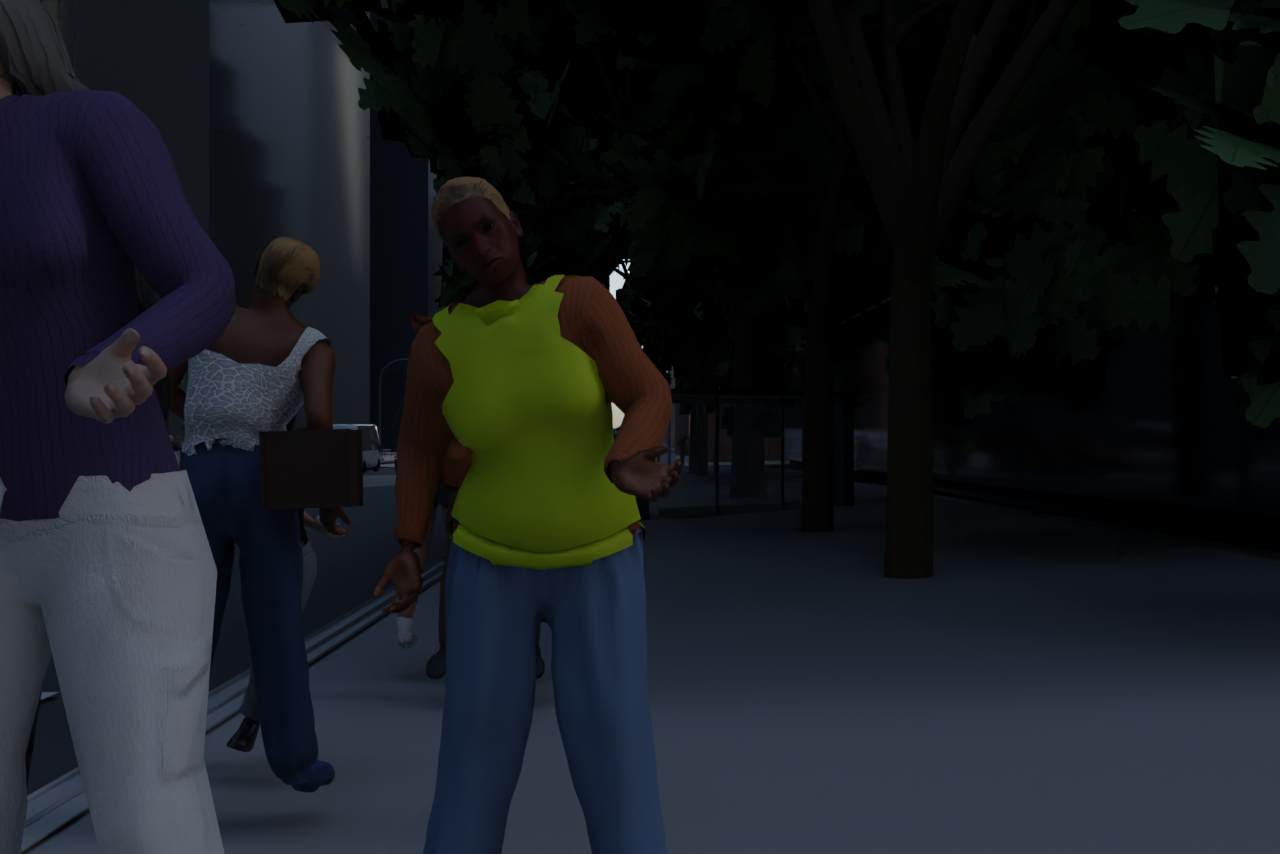
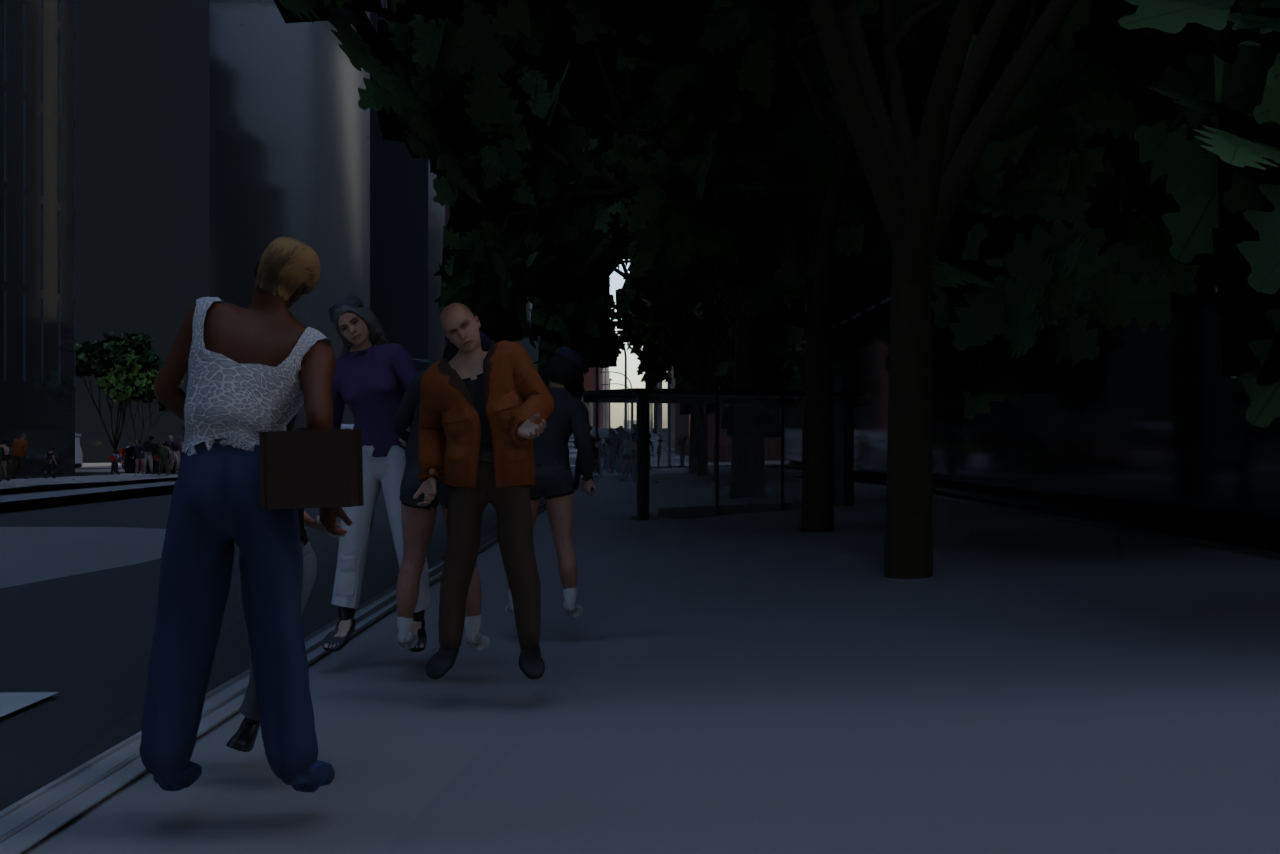
verify: Sixth Avenue, the frame that forced the clearance change, re-rendered
9 pedestrians dropped over the observer against 2 before, and 25.26 % of the
frame changed.  What was one NPC's torso at 1 m - 261 % of frame height - is a
group walking a sidewalk under the plane trees with the block face and the
avenue behind them.

The assessment says plainly that it is still a weak sheet, and why the clearance
does not touch those reasons: the camera stands under a closed tree canopy at
mean luminance 0.089, which is I16 compounded by foliage, and Sixth Avenue
itself - the roadway, the traffic, the storefronts the item names - is behind
the trees and the crowd.  Of the 50 vehicles placed in this scene none is
visible.

Fixing the framing is a camera-placement question (I14), not an agent one, and
the sheet keeps the two separate.

Claude-Session: https://claude.ai/code/session_012rCzdfEp56Z5bDvSJLVsiQ

diff --git a/docs/verification/comparison/drive_midtown_sixth_ave_45th/assessment.md b/docs/verification/comparison/drive_midtown_sixth_ave_45th/assessment.md
@@ -12,6 +12,25 @@
 
 **Verdict — the geometry is all there and none of it can be seen: a correct Sixth Avenue canyon with 14,173 kit pieces and 335 props, rendered at mean luminance 0.11 from under a pin oak in a shadowed canyon at a Sun position guessed from a year with no month or day**
 
+## Re-rendered 2026-09-07 — this frame is why the agent clearance changed
+
+**Before this pass it was one NPC's torso.** A pedestrian stood 1 m from the lens, which at a 1.6 m
+eye and this set's 38° vertical field is **261 % of frame height**, so the picture was a woman in a
+yellow top and nothing of Sixth Avenue. The clearance was 1.5 m and answered only "is a person inside
+the lens".
+
+It is now 3.5 m, derived from the frame — a 1.8 m body fills all of it at 2.6 m and 74 % of it at
+3.5 m. **9 pedestrians were dropped over the observer** here, against 2 before, and **25.26 % of the
+frame changed**. What was a torso is a group of people walking a sidewalk under the plane trees, with
+the block face on the left and the avenue behind them.
+
+**It is still a weak sheet, and for reasons the clearance does not touch.** The camera stands on the
+pavement under a closed tree canopy: mean luminance **0.089**, which is deviation I16 (the render is
+physically lit from the photograph's EXIF instant while the photograph was metered by its
+photographer) compounded by foliage overhead. Sixth Avenue itself — the roadway, the traffic, the
+storefronts the item names — is behind the trees and the crowd, so what the sheet compares is a
+sidewalk. Of the 50 vehicles the simulation placed here, none is visible.
+
 ## What matches
 
 * The camera stands on the photograph's own EXIF GPS, 35 m from the item's nominal viewpoint, on the roadway at 20.1 m NAVD88.
